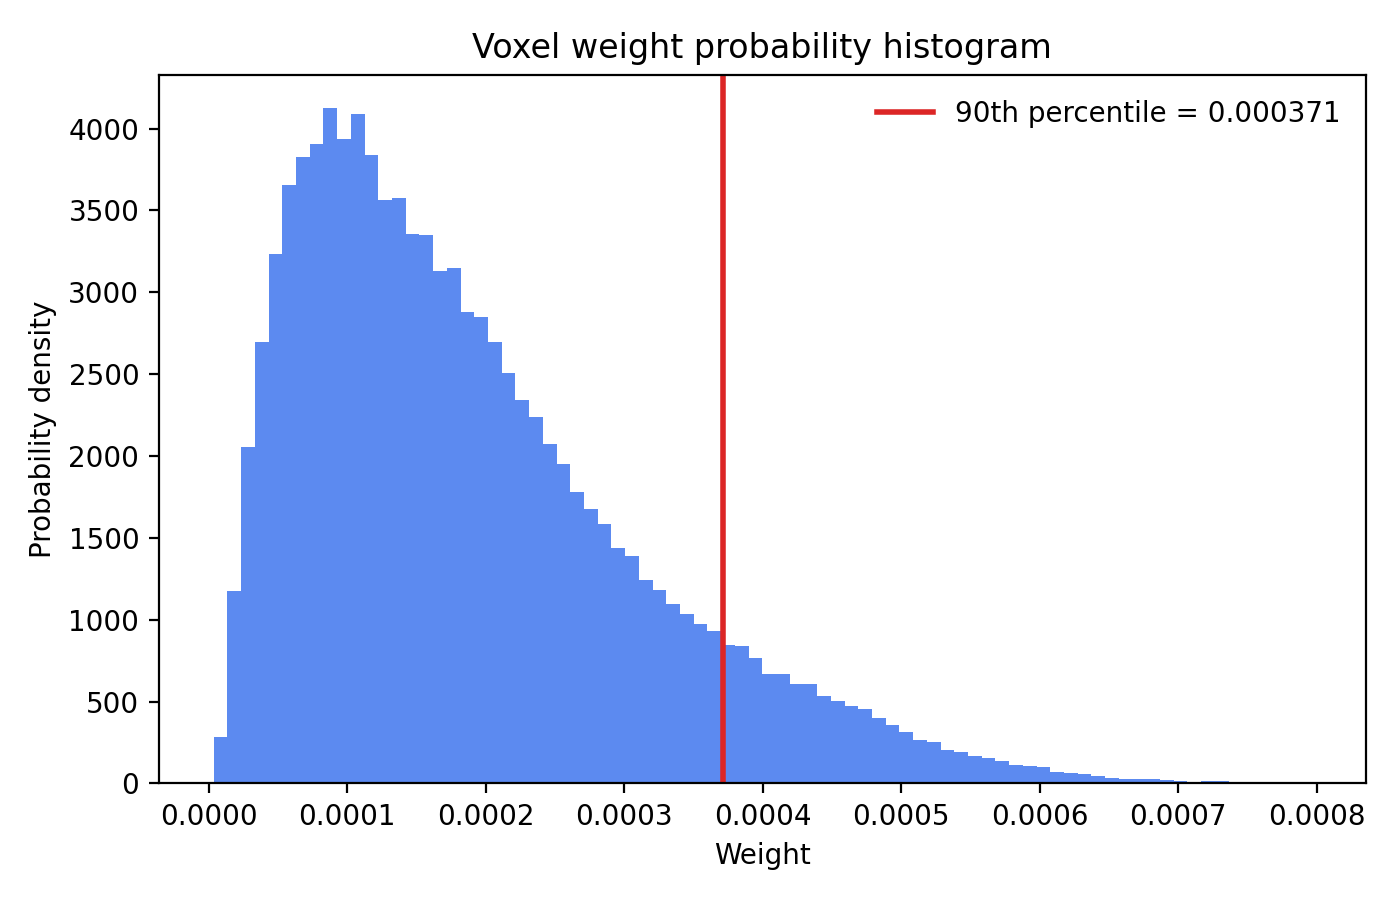
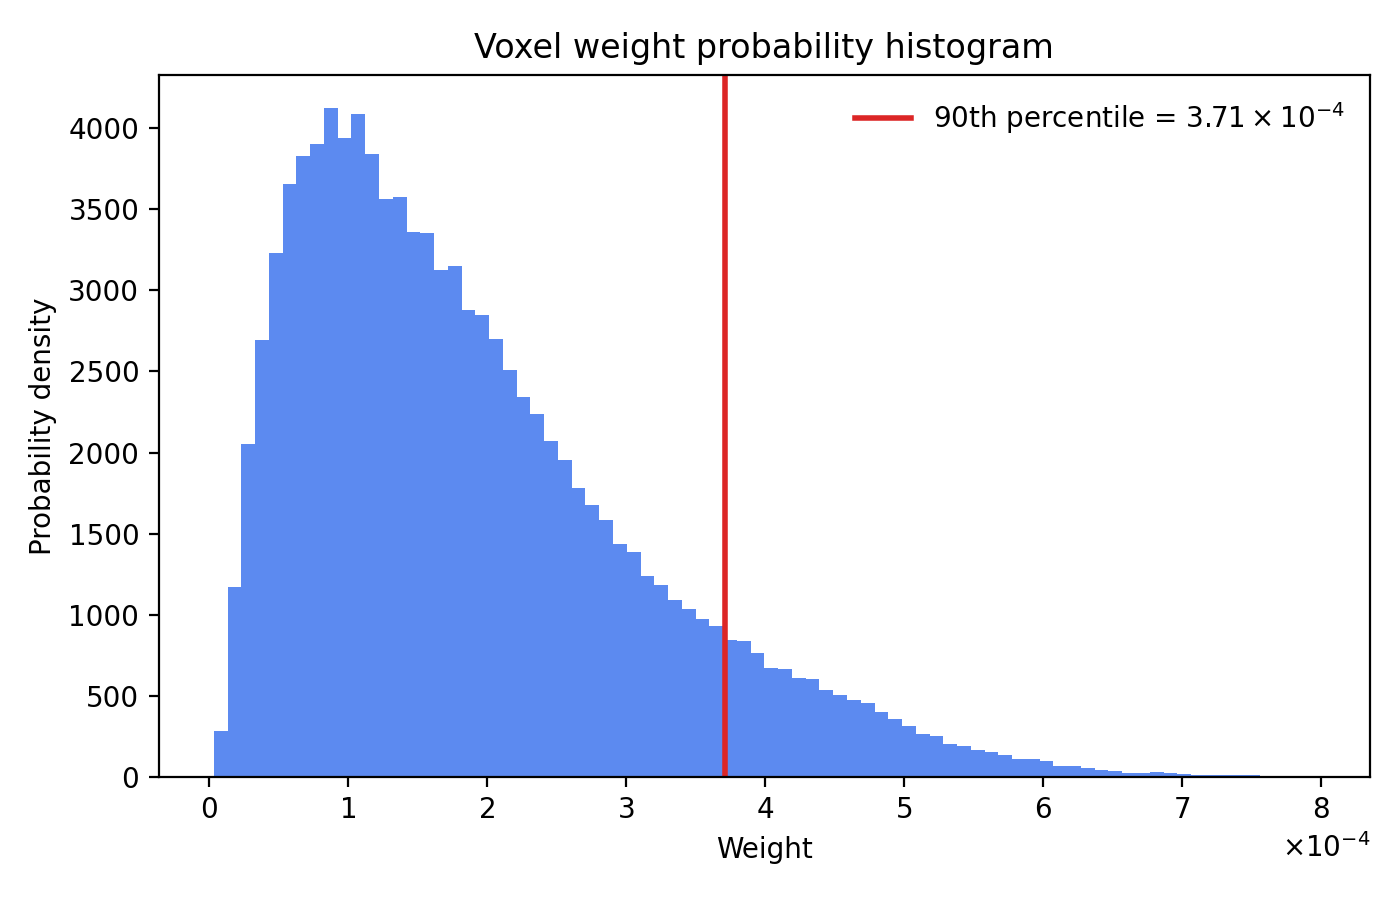
Refactor plot_weight_hist.py to improve output file handling and formatting for histogram visualization

diff --git a/plot_weight_hist.py b/plot_weight_hist.py
@@ -2,19 +2,27 @@ from pathlib import Path
 import numpy as np
 import nibabel as nib
 import matplotlib.pyplot as plt
+from matplotlib.ticker import ScalarFormatter
 
 src = Path("data/voxel_weights_mean_foldavg_sub9_ses1_task1_bold1_beta0.75_smooth1.8_gamma1.5.nii.gz")
-out = Path("figures") / "voxel_weights_mean_foldavg_sub9_ses1_task1_bold1_beta0.75_smooth1.8_gamma1.5_hist_p90.png"
+base = Path("figures") / "voxel_weights_mean_foldavg_sub9_ses1_task1_bold1_beta0.75_smooth1.8_gamma1.5_hist_p90"
+png = Path(f"{base}.png")
+pdf = Path(f"{base}.pdf")
 w = np.asarray(nib.load(src).get_fdata(), float)
 w = w[np.isfinite(w) & (w != 0)]
 thr = np.percentile(w, 90)
-out.parent.mkdir(exist_ok=True)
+base.parent.mkdir(exist_ok=True)
 fig, ax = plt.subplots(figsize=(7, 4.5))
 ax.hist(w, bins=80, density=True, color="#2563eb", alpha=0.75)
-ax.axvline(thr, color="#dc2626", lw=2, label=f"90th percentile = {thr:.3g}")
+ax.axvline(thr, color="#dc2626", lw=2, label=f"90th percentile = ${thr / 1e-4:.2f}\\times10^{{-4}}$")
+fmt = ScalarFormatter(useMathText=True)
+fmt.set_powerlimits((-4, -4))
+ax.xaxis.set_major_formatter(fmt)
 ax.set(title="Voxel weight probability histogram", xlabel="Weight", ylabel="Probability density")
 ax.legend(frameon=False)
 fig.tight_layout()
-fig.savefig(out, dpi=200)
+fig.savefig(png, dpi=200)
+fig.savefig(pdf)
 print(f"threshold={thr:.12g}")
-print(out)
+print(png)
+print(pdf)
